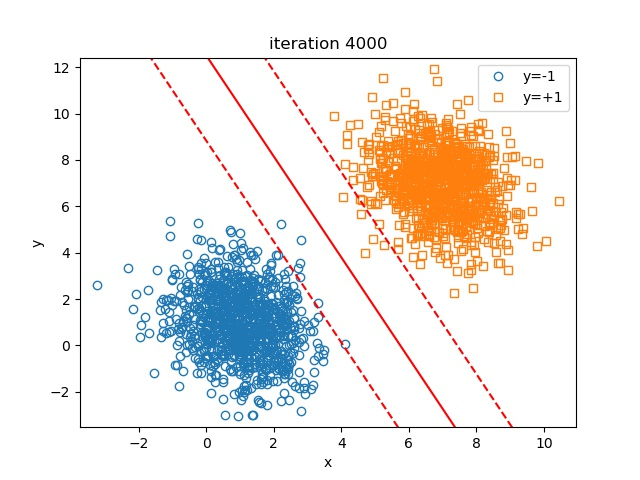
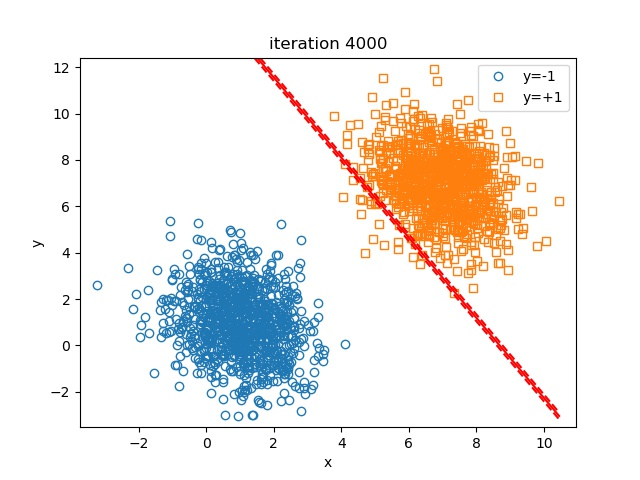
add

diff --git a/gds-dual-svm.py b/gds-dual-svm.py
@@ -1,0 +1,123 @@
+import numpy as np
+import matplotlib.pyplot as plt
+import os
+
+def generate_folder(path):
+	if not os.path.exists(path):
+		os.makedirs(path)
+
+	return path
+
+
+def load_data(num_samples = 1000):
+
+	x1 = np.random.multivariate_normal( [1,1], [[1,-0.3],[-0.3,2]], num_samples  )
+	x2 = np.random.multivariate_normal( [7,7], [[1,-0.3],[-0.3,2]], num_samples )
+	y1 = np.ones([num_samples]) *-1
+	y2 = np.ones([num_samples]) *1
+	x = np.concatenate([x1,x2], axis =0)
+	y = np.concatenate([y1,y2], axis =0)
+
+	return x, y
+
+
+def plot_results( x,y, w=None, b=None, title = "", img_save_path = None , show_img = True ):
+
+	x_negative_1 =[]
+	x_positive_1 =[]
+	for ind in range(x.shape[0]):
+		if y[ind] == -1:
+			x_negative_1.append( x[ind] )
+		else:
+			x_positive_1.append( x[ind] ) 
+	x_negative_1 = np.asarray(x_negative_1)
+	x_positive_1 = np.asarray(x_positive_1) 
+
+	plt.plot(x_negative_1[:,0], x_negative_1[:,1], "o", markerfacecolor='none')
+	plt.plot(x_positive_1[:,0], x_positive_1[:,1], 's', markerfacecolor='none')
+
+	if w is not None and b is not None:
+		if w[1] != 0:
+			## a1 a2 represent the first and second dimensions
+			a1 = np.linspace( min(x[:,0]), max(x[:,0]), 1000 )
+			a2 = -w[0]/w[1]*a1-b/w[1]
+			a2_up_margin = -w[0]/w[1]*a1-b/w[1]+1/w[1]
+			a2_down_margin = -w[0]/w[1]*a1-b/w[1]-1/w[1]
+			plt.plot(a1,a2,"r-")
+			plt.plot(a1,a2_up_margin, "r--")
+			plt.plot(a1,a2_down_margin, "r--")
+		else:
+			a2 = np.linspace( min(x[:,1]), max(x[:,1]), 1000 )
+			a1 = -w[1]/w[0]*a2-b/w[0]
+			a1_up_margin = -w[1]/w[0]*a2-b/w[0] + 1/w[0]
+			a1_down_margin = -w[1]/w[0]*a2-b/w[0] - 1/w[0]
+			plt.plot(a1,a2,"r-")
+			plt.plot(a1_up_margin, a2, "r--")
+			plt.plot(a1_down_margin, a2, "r--")
+
+	plt.xlabel("x")
+	plt.ylabel("y")
+	plt.xlim([min(x[:,0])-0.5, max(x[:,0])+0.5 ])
+	plt.ylim([min(x[:,1])-0.5, max(x[:,1])+0.5 ])
+	plt.legend(["y=-1","y=+1"])
+	plt.title(title)
+	if img_save_path is not None:
+		plt.savefig( img_save_path )
+	if show_img:
+		plt.show()
+
+	plt.close()
+
+## input the (x,y) of training dataset, output the hyperplane parameters w and b
+def svm(x,y, max_iter = 100000, lr = 0.00001,  c1=10,  epsilon= 1e-5, plot_training_results = False ):
+	# initialize w and b
+	x_dim = x.shape[-1]
+	w = np.random.normal(size=x_dim)
+	b = np.random.normal()
+
+	num_samples = x.shape[0]
+
+	## we also need to initialize the dual parameter lamb and perform gradient descent algorithm on it
+	lamb = np.absolute(np.random.normal(size = x.shape[0] ))
+	current_iter = 0
+	# start training
+	while True:
+		dLdlamb = -1 +  np.matmul(np.matmul( np.expand_dims(y , axis =-1)*x , x.T), y*lamb)  + c1*np.dot(lamb, y)*y 
+		lamb -= lr * dLdlamb
+		## perform clip
+		lamb = np.maximum(lamb, 0)
+		current_iter+=1
+		if current_iter % 20000 ==0:
+			# define the loss function:
+			loss1 = -1*np.sum( lamb ) + 0.5*np.linalg.norm( np.matmul(x.T, lamb*y ) )**2 
+			loss2 = c1 * 0.5 * np.dot(lamb, y) **2
+			loss = loss1  +loss2
+			print("loss1: %f, loss2: %f, overall loss: %f"%( loss1, loss2, loss ))
+			w = np.matmul( x.T, lamb*y )
+			# select a support vector
+			support_ind = []
+			for ind in range(x.shape[0]):
+				if lamb[ind] > epsilon:
+					support_ind.append(ind)
+			x_support, y_support, lamb_support = x[support_ind], y[support_ind], lamb[support_ind]
+			w = np.matmul( x_support.T, lamb_support*y_support )
+			b = np.mean( y_support - np.matmul( x_support,w ))
+			if plot_training_results:
+				plot_results(x,y, w,b, title= "iteration %d"%(current_iter), img_save_path=generate_folder("results/gds-dual-svm/")+"results-iter%d.jpg"%(current_iter), show_img=False )
+		
+		if current_iter >= max_iter:
+			break
+	# select a support vector
+	support_ind = []
+	for ind in range(x.shape[0]):
+		if lamb[ind] > epsilon:
+			support_ind.append(ind)
+	x_support, y_support, lamb_support = x[support_ind], y[support_ind], lamb[support_ind]
+	w = np.matmul( x_support.T, lamb_support*y_support )
+	b = np.mean( y_support - np.matmul( x_support,w ))
+	return w,b
+
+np.random.seed(1000)
+x, y = load_data(300)
+w,b =svm(x,y,max_iter = 800000,plot_training_results = True)
+plot_results(x,y, w,b )
